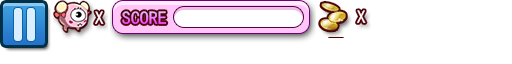
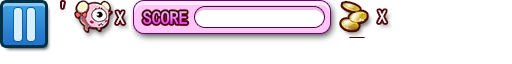
更新游戏场景时间显示 .....

Changed region(s): [[0.0938, 0.0, 0.4062, 0.625], [0.5625, 0.0, 0.7812, 0.625]]

diff --git a/Classes/MainGame.cpp b/Classes/MainGame.cpp
@@ -29,12 +29,14 @@ void MainGame::onEnter()
 	laMonster = dynamic_cast<UILabelAtlas*>(ulGameControl->getWidgetByName("la_monster"));
 	laCoin = dynamic_cast<UILabelAtlas*>(ulGameControl->getWidgetByName("la_money"));
 	laScore = dynamic_cast<UILabelAtlas*>(ulGameControl->getWidgetByName("la_score"));
-	laTime = dynamic_cast<UILabelAtlas*>(ulGameControl->getWidgetByName("la_time"));
+	laMin = dynamic_cast<UILabelAtlas*>(ulGameControl->getWidgetByName("la_min"));
+	laSec = dynamic_cast<UILabelAtlas*>(ulGameControl->getWidgetByName("la_sec"));
 
 	setText(laMonster, "0");
 	setText(laCoin, "0");
 	setText(laScore, "0");
-	setText(laTime, "0");
+	setText(laMin, "0");
+	setText(laSec, "0");
 
 	ulGameControl->setTouchEnabled(true);
 }
@@ -195,4 +197,14 @@ void MainGame::setScore(int Score)
 void MainGame::setMonsterKillNum(int KillNum)
 {
 	setText(laMonster, (Util::NumberToString(KillNum)).c_str());
+}
+
+void MainGame::setMin(int min)
+{
+	setText(laMin, N2C(min));
+}
+
+void MainGame::setSec(int sec)
+{
+	setText(laSec, N2C(sec));
 }

diff --git a/Classes/FirstStage.cpp b/Classes/FirstStage.cpp
@@ -186,6 +186,8 @@ void FirstStage::updateAllScores(float dt)
 		setCoin(GI.Coin);
 		setScore(int(GI.Score));
 		setMonsterKillNum(GI.MonsterKillNum);
+		setMin(int(GI.ChallengeTime) / 60);
+		setSec(int(GI.ChallengeTime) % 60);
 
 		if (GI.Me && GI.Me->getQueueNum() == 0)
 		{
